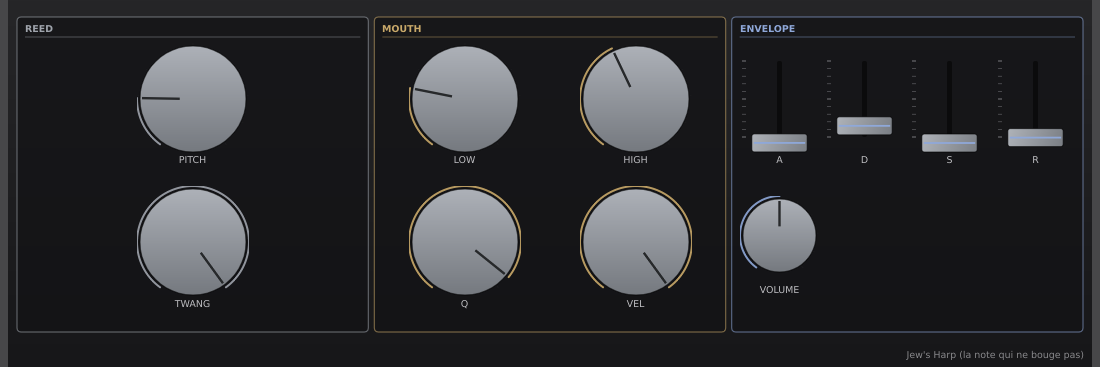
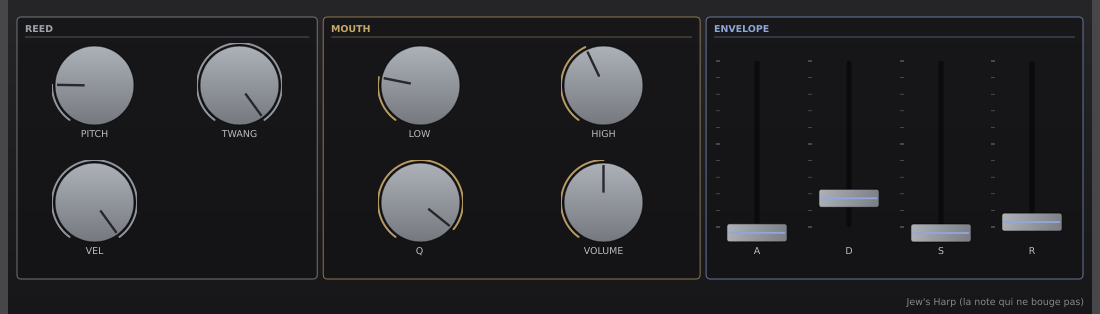
Aucun potentiometre dans une colonne de curseur
Vu a l'ecran en ouvrant les quatre dernieres machines : sur `vsm.jewsharp`,
l'etiquette du volume sortait tronquee (« Vo.. ») dans le rack. Les quatre
curseurs d'enveloppe occupent quatre colonnes internes, si bien qu'un bouton
pose en dessous heritait du quart de la largeur.

Elargir la section n'a pas suffi -- le bouton restait dans une colonne de
curseur. Le volume est donc alle rejoindre la section MOUTH, ou il a la place
de se lire, et la velocite a rejoint REED, ou elle a d'ailleurs sa vraie place
(c'est la force du PINCEMENT, pas un reglage d'enveloppe).

Regle qui se degage et qui vaut pour les prochaines facades : un potentiometre
ne se pose pas sous une rangee de curseurs verticaux, il y sera toujours trop
etroit pour porter son nom.

Troisieme defaut d'interface trouve aujourd'hui par une capture, et qu'aucun
des 1 395 tests ne pouvait voir.

Claude-Session: https://claude.ai/code/session_0143bm9KPpQZMC3AL4cFcXFd

diff --git a/panels/src/MachinePanels.cpp b/panels/src/MachinePanels.cpp
@@ -3785,7 +3785,11 @@ MachinePanel makeJewsHarp() {
     panel.sectionColour = "#131315";
     panel.textColour = "#E8E8EC";
     panel.knobColour = "#9FA4AC";
-    panel.gridColumns = 12;
+    // QUATORZE COLONNES, PAS DOUZE : à douze, la section ENVELOPE serrait
+    // quatre curseurs et un potentiomètre dans quatre colonnes, et
+    // l'étiquette du volume sortait tronquée (« L. ») dans le rack. Vu à
+    // l'écran, corrigé en élargissant plutôt qu'en rétrécissant le texte.
+    panel.gridColumns = 14;
     panel.gridRows = 4;
 
     PanelSection lame;
@@ -3794,30 +3798,37 @@ MachinePanel makeJewsHarp() {
     lame.column = 0; lame.row = 0; lame.columnSpan = 4; lame.rowSpan = 4;
     lame.controls = {
         control("Reed Pitch", "PITCH", S::LargeKnob, 0, 0),
-        control("Twang", "TWANG", S::Knob, 0, 1),
+        control("Twang", "TWANG", S::Knob, 1, 0),
+        // La vélocité est la force du PINCEMENT : sa place est ici, à côté de
+        // la lame, et non dans l'enveloppe.
+        control("Velocity Sensitivity", "VEL", S::Knob, 0, 1),
     };
 
     PanelSection bouche;
     bouche.title = "MOUTH";
     bouche.accentColour = "#C9A96A";
-    bouche.column = 4; bouche.row = 0; bouche.columnSpan = 4; bouche.rowSpan = 4;
+    bouche.column = 4; bouche.row = 0; bouche.columnSpan = 5; bouche.rowSpan = 4;
     bouche.controls = {
         control("Formant Low", "LOW", S::Knob, 0, 0),
         control("Formant High", "HIGH", S::Knob, 1, 0),
         control("Formant Q", "Q", S::Knob, 0, 1),
-        control("Velocity Sensitivity", "VEL", S::Knob, 1, 1),
+        control("Output Level", "VOLUME", S::Knob, 1, 1),
     };
 
     PanelSection enveloppe;
     enveloppe.title = "ENVELOPE";
     enveloppe.accentColour = "#8FA8D9";
-    enveloppe.column = 8; enveloppe.row = 0; enveloppe.columnSpan = 4; enveloppe.rowSpan = 4;
+    enveloppe.column = 9; enveloppe.row = 0; enveloppe.columnSpan = 5; enveloppe.rowSpan = 4;
+    // AUCUN POTENTIOMÈTRE DANS UNE COLONNE DE CURSEUR : les quatre curseurs
+    // occupent quatre colonnes internes, si bien qu'un bouton posé en dessous
+    // héritait du quart de la largeur et voyait son étiquette tronquée en
+    // « Vo.. » dans le rack. Le volume est donc allé rejoindre la bouche, où
+    // il a la place de se lire.
     enveloppe.controls = {
         control("Attack", "A", S::VerticalSlider, 0, 0),
         control("Decay", "D", S::VerticalSlider, 1, 0),
         control("Sustain", "S", S::VerticalSlider, 2, 0),
         control("Release", "R", S::VerticalSlider, 3, 0),
-        control("Output Level", "VOLUME", S::Knob, 0, 1),
     };
 
     panel.sections = {lame, bouche, enveloppe};
